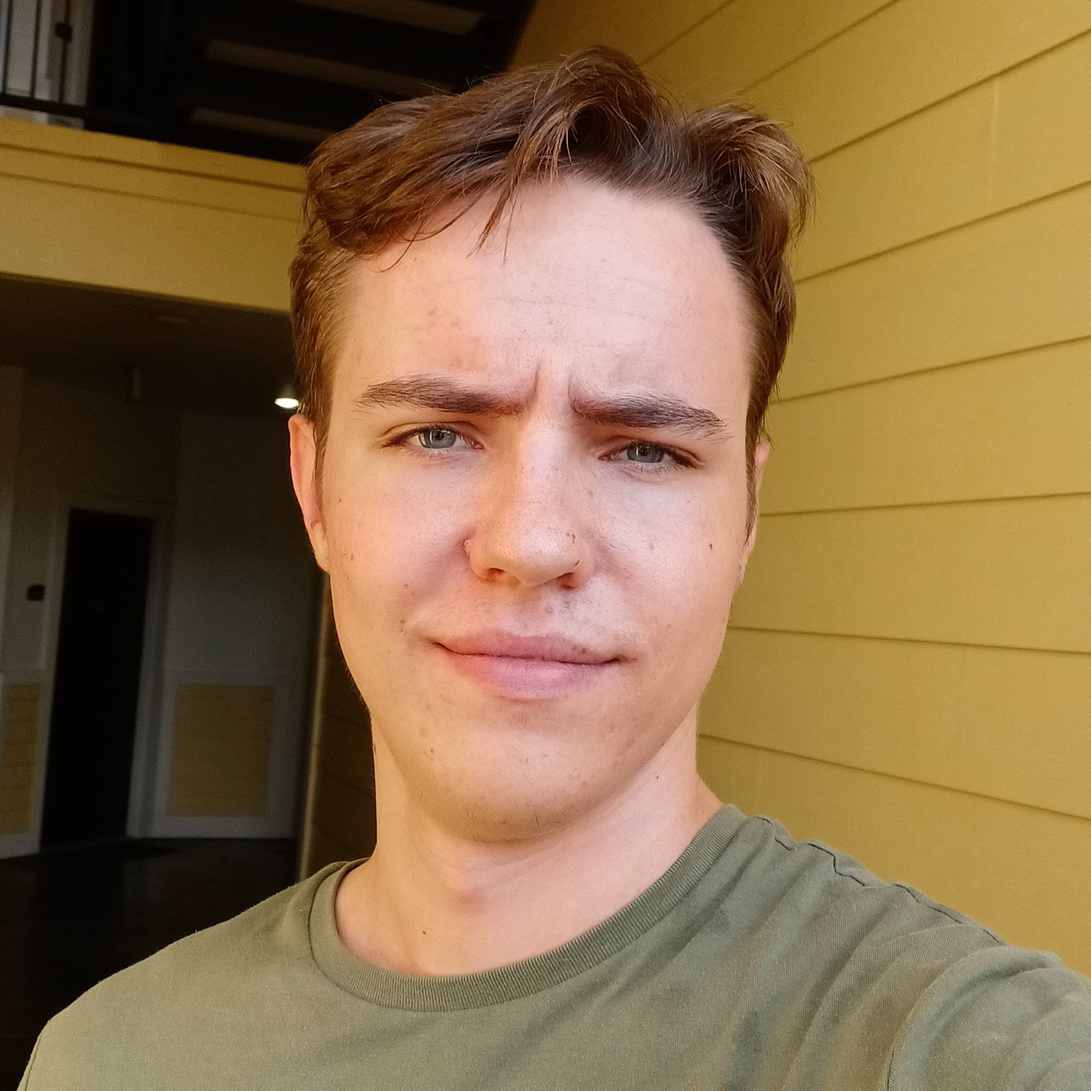
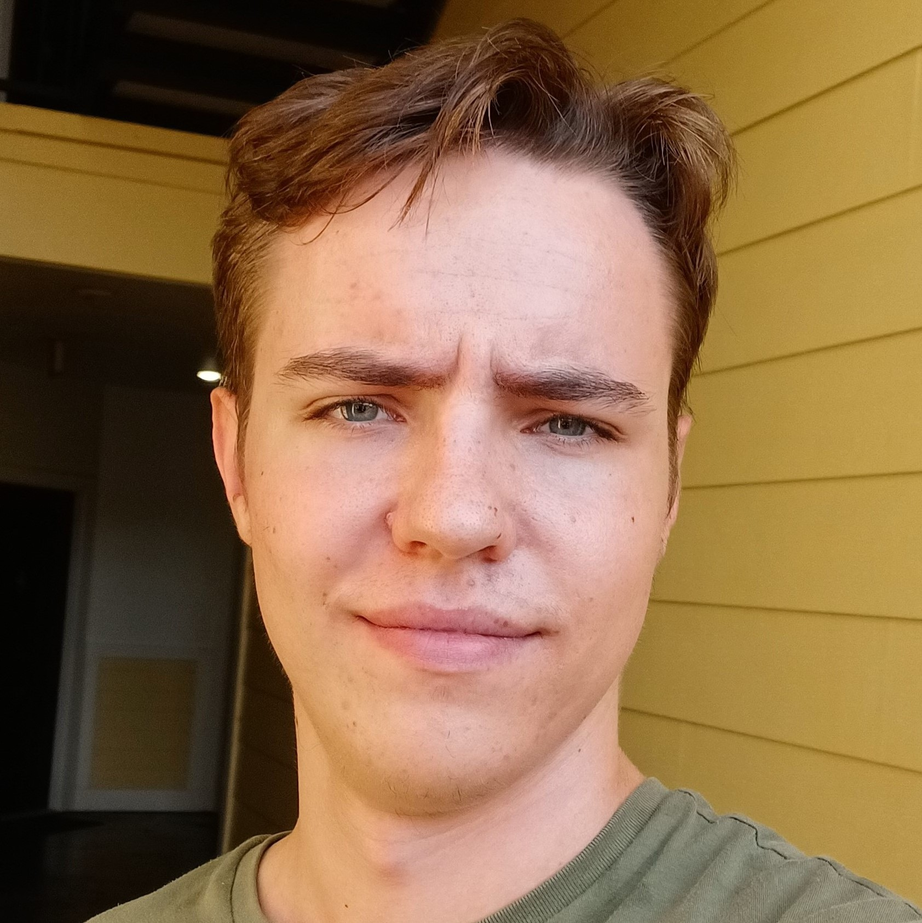
Changed scaling, image to closer, added youtube

diff --git a/index.html b/index.html
@@ -54,7 +54,7 @@
 
                 <div>
                     <h1>Egor Kharitonov</h1>
-                    <p>Future senior developer of something</p>    
+                    <p>19 y.o computer science student from Tampa, Florida 🇺🇸</p>    
                 </div>
 
             </header>
@@ -76,17 +76,21 @@
                 <a href="https://www.instagram.com/kharitonoffegor" class="HidenButton" id="EmailCopy" target="_blank">
                     <img src="images/insta.png" class="SocialIcons">
                 </a>
+
+                <a href="https://www.youtube.com/@kharitonov_egor" class="HidenButton" id="EmailCopy" target="_blank">
+                    <img src="images/youtube.png" class="SocialIcons">
+                </a>
                 
-                <a href="mailto:ega.khar@gmail.com" class="HidenButton" id="EmailCopy" target="_blank">
+                <a href="mailto:ekharitonov@hawkmail.hccfl.edu" class="HidenButton" id="EmailCopy" target="_blank">
                     <img src="images/email.png" class="SocialIcons">
                 </a>
 
 
                 <p id="EmailCopyConfirmation" style="display: none">Email was copied to clipboard</p>
-                            
+                
             </main>
 
-        <p style="display: none" id="EmailToCopy">ega.khar@gmail.com</p>
+        <p style="display: none" id="EmailToCopy">ekharitonov@hawkmail.hccfl.edu</p>
 
         <script src="script.js"></script>
 

diff --git a/styles.css b/styles.css
@@ -18,18 +18,12 @@ body {
 }
 
 .container {
-    width: 500px;
+    width: 550px;
     height: 100vh;
     margin: 0 auto;
     display: grid;
     align-content: center;
     align-items: center;
-}
-
-@media only screen and (max-width: 400px) {
-    .container {
-        width: 100vw;
-    }
 }
 
 p, h1, h2, h3 {
@@ -46,14 +40,24 @@ p {
 
 header {
     text-align: center;
-    height: 225px;
-    padding-bottom: 10%;
+    margin-bottom: 25px;
 }
 
 h3 {
     margin-bottom: 15px;
 
 }
+
+@media only screen and (max-width: 400px) {
+    .container {
+        width: 96vw;
+    }
+
+    .header {
+        margin-bottom: 100px;
+    }
+}
+
 .icon {
     width: 175px;
     height: 175px;
@@ -75,8 +79,8 @@ main {
 .SocialIcons {
     margin-right: 10px;
     margin-left: 10px;
-    height: 70px;
-    width: 70px;
+    height: 60px;
+    width: 60px;
 }
 
 #EmailCopyConfirmation {
